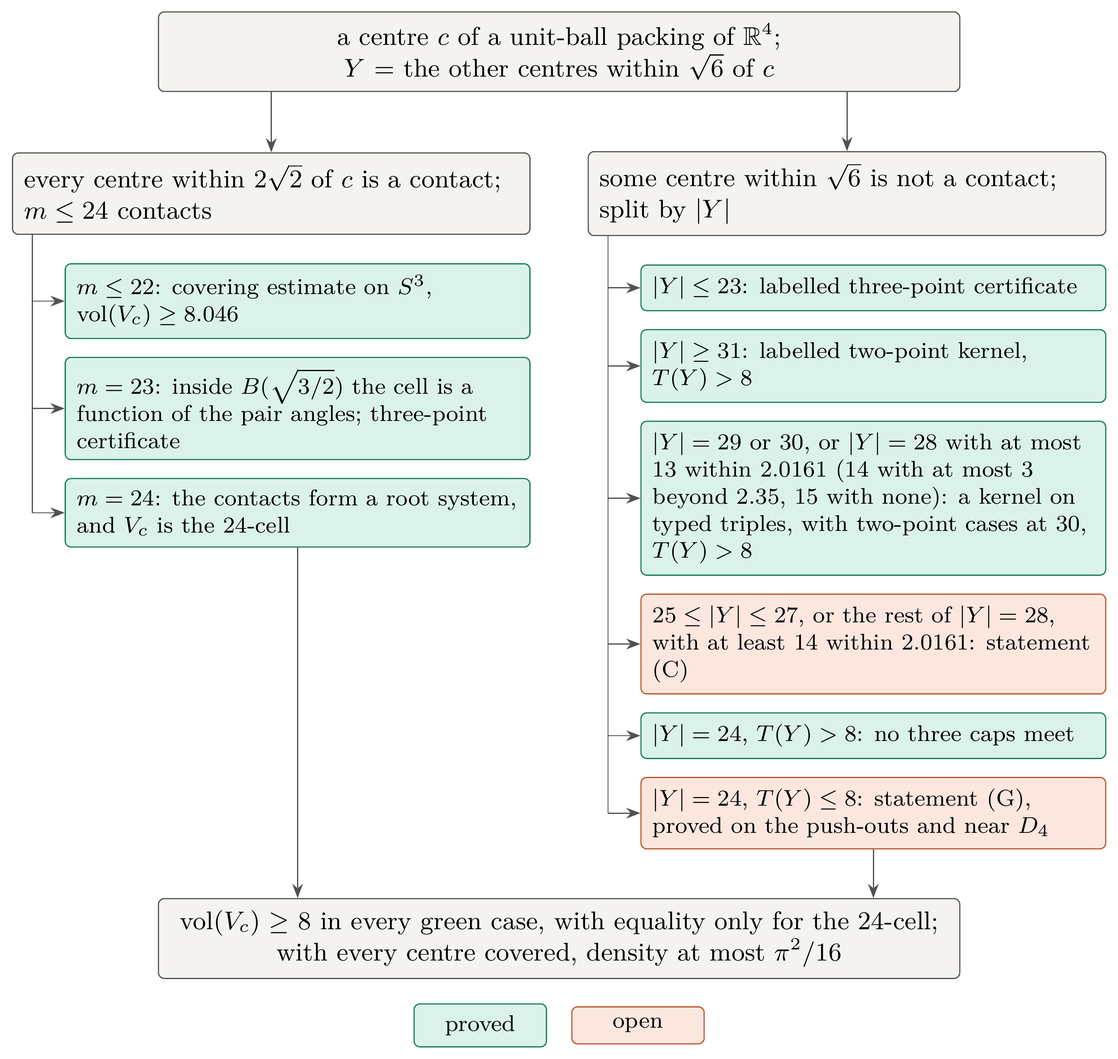
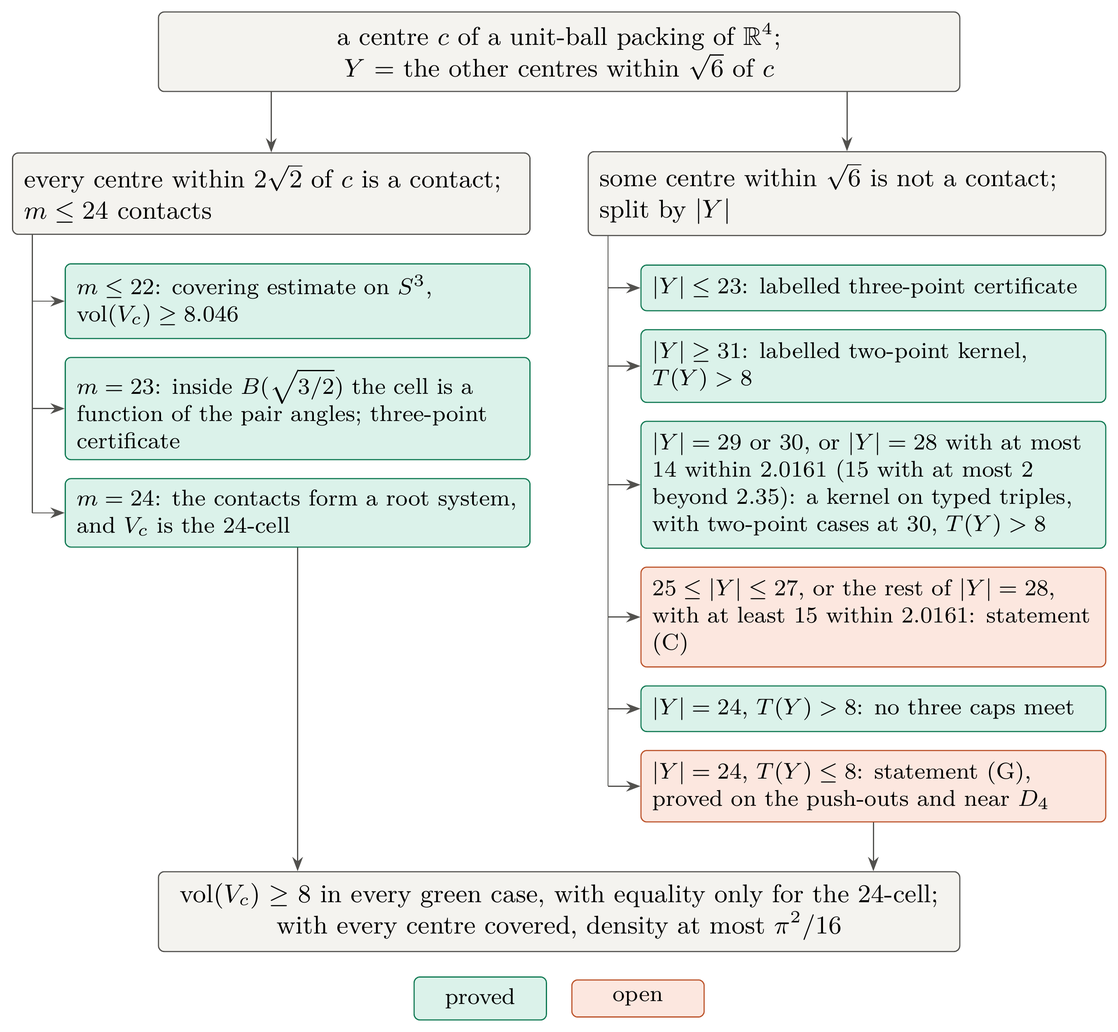
(C) at 28: at most 14 centres within 2.0161, or 15 with at most 2 beyond 2.35 (bins refined)
The refined-bin check passes (multi_cap/runs/combo28_refined_check.log):
smaller constants for the triples in bins (1,3,7), (1,6,7), (3,3,3),
(1,1,3) and the pairs in (3,6), (6,6), checked by branch and bound with
the thresholds of the passing full check (identical, by diff). Largest
exact bounds 3.102386 at (14,0,9,0,0,1,4) and 3.102823 at (15,0,8,0,0,3,2),
below 9 pi^2/8 - 8. prop:count28-few, rem:count28-rest, the outlook, the
proof map, the table row and the READMEs follow. The check at smaller
margins has started (combo28_squeeze_check.log).

Claude-Session: https://claude.ai/code/session_019XJVgYk98V2Kfwjssyo66W

diff --git a/paper/D4.tex b/paper/D4.tex
@@ -246,8 +246,8 @@ contact graph on $S^3$.
 This paper proves the conjecture at every centre whose neighbours within
 $2\sqrt2$ touch it, at every centre with at most twenty-three or at least
 twenty-nine other centres within $\sqrt6$, or with twenty-eight of which at
-most thirteen lie within $2.0161$ (fourteen if at most three lie beyond
-$2.35$, fifteen if none does), and in an explicit neighbourhood
+most fourteen lie within $2.0161$ (fifteen if at most two lie beyond
+$2.35$), and in an explicit neighbourhood
 of the $D_4$ configuration, and it reduces the remaining centres to two
 explicit statements about at most twenty-eight neighbours; the cases left open
 are those of \cref{conj:shell} below.
@@ -330,9 +330,8 @@ set of other centres within $\sqrt6$ of $c$. The conclusion of
 \begin{enumerate}[label=\textup{(\alph*)},leftmargin=2.2em]
 \item $|Y|\le23$, at any distances;
 \item $|Y|\ge31$, and then $\vol(V_c)>8.0179$;
-\item $|Y|=29$ or $|Y|=30$, or $|Y|=28$ and at most $13$ centres of $Y$
-lie within $2.0161$ of $c$, or at most $14$ with at most $3$ beyond $2.35$,
-or at most $15$ with none beyond $2.35$;
+\item $|Y|=29$ or $|Y|=30$, or $|Y|=28$ and at most $14$ centres of $Y$
+lie within $2.0161$ of $c$, or at most $15$ with at most $2$ beyond $2.35$;
 \item $|Y|=24$, and $Y$ lies on the rays from $c$ through the roots of a
 copy of $\Rt$;
 \item the contact directions of $c$ contain all but at most two of the
@@ -365,7 +364,7 @@ The twenty-four-cell conjecture is \cref{thm:local-general} together with
 \cref{thm:kissing-stable}, a centre at which \cref{conj:shell} fails has
 between $24$ and $28$ other centres within $\sqrt6$, one of them at a
 distance between $2+\varepsilon_0$ and $\sqrt6$, and at most $24$ within
-$2.0161$; if it has $28$, then at least $14$ of them lie within $2.0161$.
+$2.0161$; if it has $28$, then at least $15$ of them lie within $2.0161$.
 For a set $Y$ of centres within $\sqrt6$ of $c$ let $T(Y)$ be the
 volume of the part of $B(c,\sqrt{3/2})$ that no half-space of $Y$ cuts off,
 and $K(Y)$ the convex hull of $c$ and the images of the centres of $Y$ under
@@ -383,13 +382,12 @@ thirty and twenty-nine with a kernel on triples of directions that carry the
 range of their distance from $c$ as a type; for $25\le|Y|\le28$ we prove lower bounds on
 the number of centres within $2.05$, $2.1$, $2.15$ and $2.2$
 (\cref{prop:C-radial}), and with the same kernel we prove (C) for
-$|Y|=28$ when at most $13$ centres lie within $2.0161$, and when $14$ or
-$15$ do under bounds on the centres beyond $2.35$
-(\cref{prop:count28-few}). We prove (G) along
+$|Y|=28$ when at most $14$ centres lie within $2.0161$, and when $15$ do
+and at most $2$ lie beyond $2.35$ (\cref{prop:count28-few}). We prove (G) along
 every push-out of the root system and in a neighbourhood of it
 (\cref{thm:G-pushout,thm:near-contact}). Statement (G) in general, and (C)
 for $25\le|Y|\le27$ and for the cases with $|Y|=28$ that
-\cref{rem:count28-rest} lists, all with at least $14$ centres within
+\cref{rem:count28-rest} lists, all with at least $15$ centres within
 $2.0161$, are open, and \cref{sec:G-and-C} sets out what each
 needs; \cref{fig:proof-map} shows the cases. The density bound does not
 require them cell by cell:
@@ -1472,7 +1470,7 @@ Result & Kernel & Degree & Finite check & Proved / needed\\
 \cref{thm:count31} & pairs, labelled & $12$, $4$ & $191\,740$ boxes & $3.08537$ / $3.10330$\\
 \cref{thm:count30} & pairs; typed triples & $12$, $4$; $8$ & $193$ million boxes & $3.0992$ / $3.10330$\\
 \cref{thm:count29} & pairs; typed triples & $12$, $4$; $8$ & $16.3$ million boxes & $3.10147$ / $3.10330$\\
-\cref{prop:count28-few} & pairs; typed triples & $12$, $4$; $8$ & $19.1$ million boxes & $3.10246$ / $3.10330$\\
+\cref{prop:count28-few} & pairs; typed triples & $12$, $4$; $8$ & $27.9$ million boxes & $3.10283$ / $3.10330$\\
 \cref{prop:levels}, $M=24$ & pairs; typed triples & $6$ (triples) & $104\,028$ boxes & $3.25388$ / $3.3291$\\
 \cref{prop:levels}, $M=26$ & pairs; typed triples & $8$ (triples) & $7.5$ million boxes & $3.32906$ / $3.3291$\\
 \cref{prop:C-radial} & pairs, labelled & $12$, $4$ & one split per entry & $3.10276$ / $3.10330$\\
@@ -7229,8 +7227,8 @@ the pair terms for twenty-five or more. Four statements would give both.
   away from the root system, and for each count from $25$ to $28$. It is
   proved for $23$ by \cref{thm:m23-labelled}, at $29$ and $30$ by
   \cref{thm:count29,thm:count30}, from $31$ on by \cref{thm:count31}, and at
-  $28$ with at most $13$ centres within $2.0161$, or $14$ or $15$ under bounds
-  on those beyond $2.35$, by \cref{prop:count28-few}.
+  $28$ with at most $14$ centres within $2.0161$, or $15$ with at most $2$
+  beyond $2.35$, by \cref{prop:count28-few}.
 \end{enumerate}
 By \cref{prop:second-code}, statement (i) fails at slack $0.017$, so for
 twenty-four centres (i) and (ii) cannot be proved one after the other over
@@ -7877,9 +7875,9 @@ them, and \cref{rem:what-g-needs-2} sets out what a proof needs.
 For twenty-five or more centres within $\sqrt6$ the pair terms alone
 suffice from thirty-one centres on (\cref{thm:count31}), and with triples
 of typed directions added they suffice at thirty and at twenty-nine
-(\cref{thm:count30,thm:count29}), and at twenty-eight when at most thirteen
-centres lie within $2.0161$, or fourteen or fifteen under bounds on those
-beyond $2.35$ (\cref{prop:count28-few}). From twenty-five to twenty-seven,
+(\cref{thm:count30,thm:count29}), and at twenty-eight when at most fourteen
+centres lie within $2.0161$, or fifteen with at most two beyond $2.35$
+(\cref{prop:count28-few}). From twenty-five to twenty-seven,
 and in the cases at twenty-eight that \cref{rem:count28-rest} lists, they
 are not proved to suffice, although the least value of $T$ found numerically for
 such configurations is $8.264$ (\cref{fig:counts}). Together with (G), the
@@ -7930,8 +7928,8 @@ slack $s$. (d) The cases of \cref{prop:reduction-G}; the green boxes are
 proved, the orange ones are statement (G) and statement (C) for twenty-five
 to twenty-eight centres, (C) being proved from twenty-nine on by
 \cref{thm:count31,thm:count30,thm:count29} and at twenty-eight with at most
-thirteen centres within $2.0161$, or fourteen or fifteen under bounds on those
-beyond $2.35$, by \cref{prop:count28-few}.
+fourteen centres within $2.0161$, or fifteen with at most two beyond $2.35$,
+by \cref{prop:count28-few}.
 Panels (b) and (c) are floating-point minimisations, evidence and not
 bounds.}
 \label{fig:codes}
@@ -8100,8 +8098,8 @@ With at most $23$ centres within $\sqrt6$ the bound holds by
 \cref{thm:m23-labelled}, and with $31$ or more by \cref{thm:count31}
 (\cref{fig:count31}); \cref{thm:count30,thm:count29} below settle thirty and
 twenty-nine, \cref{prop:count28-few} settles twenty-eight with at most
-thirteen centres within $2.0161$ and with fourteen or fifteen under bounds
-on those beyond $2.35$, and what remains of (C) is the range from $25$ to
+fourteen centres within $2.0161$ and with fifteen when at most two lie beyond
+$2.35$, and what remains of (C) is the range from $25$ to
 $27$ and the rest of $28$.
 
 \begin{remark}[Where the kernel stops]\label{rem:kernel-limit}
@@ -8181,9 +8179,9 @@ $\Pi$ at $u=\frac12$, the inner product of neighbouring roots
 $u=\frac12$; $\Pi$ is positive from $u=\frac13$, where the two caps first
 meet. (d) The counts of centres within $\sqrt6$ and what settles each;
 thirty and twenty-nine are settled by the kernel on typed triples of
-\cref{thm:count30,thm:count29}, and twenty-eight with at most thirteen
-centres within $2.0161$, or fourteen or fifteen under bounds on those beyond
-$2.35$, by \cref{prop:count28-few}.
+\cref{thm:count30,thm:count29}, and twenty-eight with at most fourteen
+centres within $2.0161$, or fifteen with at most two beyond $2.35$, by
+\cref{prop:count28-few}.
 Panel (a) is floating point, except the value $3.0854$ at $31$, which is
 proved.}
 \label{fig:count31}
@@ -8876,9 +8874,8 @@ number of centres within $2.0161$ is bounded.
 
 \begin{prop}[Twenty-eight centres, few of them close]\label{prop:count28-few}
 Suppose that exactly $28$ centres other than $c$ lie within $\sqrt6$ of $c$.
-If at most $13$ of them lie within $2.0161$ of $c$, or at most $14$ lie
-within $2.0161$ and at most $3$ beyond $2.35$, or at most $15$ lie within
-$2.0161$ and none beyond $2.35$, then $T(Y)>8$.
+If at most $14$ of them lie within $2.0161$ of $c$, or at most $15$ lie
+within $2.0161$ and at most $2$ beyond $2.35$, then $T(Y)>8$.
 \end{prop}
 
 \begin{proof}
@@ -8890,9 +8887,8 @@ $c$ lies in $[2,2.05]$, $(2.05,2.35]$ or $(2.35,\sqrt6)$, and give its
 direction the same type. With the seven bins $[2,2.0161]$, $(2.0161,2.05]$,
 $(2.05,2.1]$, $(2.1,2.15]$, $(2.15,2.2]$, $(2.2,2.35]$ and $(2.35,\sqrt6)$,
 the integer vectors $(n_b)$ with $\sum_bn_b=28$ that meet these bounds
-number $60\,214$ with $n_1\le13$, which fall into $105$ classes by the
-numbers of centres of each type, $59\,799$ with $n_1\le14$ and $n_7\le3$,
-and $26\,554$ with $n_1\le15$ and $n_7=0$. The derivation of
+number $62\,865$ with $n_1\le14$ and $55\,611$ with $n_1\le15$ and $n_7\le2$.
+The derivation of
 \eqref{eq:thirty-bound} applies word for word, with these bins and types,
 and it remains to see that its right side is below $\frac98\pi^2-8$ at each
 of these vectors.
@@ -8912,27 +8908,40 @@ samples miss by about $3\cdot10^{-6}$, and the smaller margin leaves no room
 to close the boxes near it. The six inequalities on pairs close $3\,279\,356$ boxes,
 $3\,167\,158$ of them for two centres of type $\mathsf a$, and evaluate
 $\Pi$ in ball arithmetic at $3\,170\,697$ of them; the bins take $3698$
-intervals, and the ten inequalities on triples close $15\,805\,222$ boxes. The right
-side of \eqref{eq:thirty-bound}, evaluated in exact rational arithmetic, is
-largest at $(13,0,11,0,0,0,4)$ among the vectors with $n_1\le13$, where it is
-$3.100609$, at $(14,0,11,0,0,0,3)$ among those with $n_1\le14$ and $n_7\le3$,
-where it is $3.102452$, and at $(15,0,13,0,0,0,0)$ among those with
-$n_1\le15$ and $n_7=0$, where it is $3.101488$, each below
+intervals, and the ten inequalities on triples close $15\,805\,222$ boxes.
+
+Narrower bins give smaller constants. Three centres in the bins $b$, $b'$ and
+$b''$ have inner products at most $a(\rho_b,\rho_{b'})$, $a(\rho_b,\rho_{b''})$
+and $a(\rho_{b'},\rho_{b''})$, where $\rho_b$ is the upper end of bin $b$,
+because $a$ increases in each argument; the inequality on triples of their kind
+therefore holds on that smaller set with a smaller constant, and the same goes
+for pairs. With the same margins, the triples of centres in the bins $(1,3,7)$
+and $(1,6,7)$ get a constant of at most $3.1880\cdot10^{-4}$ in place of
+$3.2152\cdot10^{-4}$, those in $(3,3,3)$ at most $5.3549\cdot10^{-4}$ in place
+of $5.4355\cdot10^{-4}$, those in $(1,1,3)$ at most $5.6168\cdot10^{-4}$ in
+place of $5.6233\cdot10^{-4}$, and the pairs in the bins $(3,6)$ and $(6,6)$
+at most $6.59505\cdot10^{-2}$ and $6.59697\cdot10^{-2}$ in place of
+$6.59702\cdot10^{-2}$; these inequalities close $8\,792\,068$ further boxes. In
+\eqref{eq:thirty-bound} each pair or triple then counts with the constant of
+its bins where one is given, and with that of its types otherwise. The right
+side, evaluated in exact rational arithmetic, is largest at
+$(14,0,9,0,0,1,4)$ among the vectors with $n_1\le14$, where it is
+$3.102386$, and at $(15,0,8,0,0,3,2)$ among those with $n_1\le15$ and
+$n_7\le2$, where it is $3.102823$, both below
 $\frac98\pi^2-8=3.10330\ldots$. None of the inequalities checked above
-involves the counts, so the one certificate and its one check serve all three
+involves the counts, so the one certificate and these checks serve both
 sets of vectors.
 \end{proof}
 
 \begin{remark}[What remains at twenty-eight centres]\label{rem:count28-rest}
 By \cref{prop:C-radial,prop:count28-few}, a set $Y$ of $28$ centres with
-$T(Y)\le8$ has at least $14$ centres within $2.0161$, $21$ within $2.1$,
-$22$ within $2.15$, $23$ within $2.2$ and $24$ within $2.35$; if exactly $14$
-lie within $2.0161$, then $4$ lie beyond $2.35$, and if exactly $15$, then at
-least one does. Since
+$T(Y)\le8$ has at least $15$ centres within $2.0161$, $21$ within $2.1$,
+$22$ within $2.15$, $23$ within $2.2$ and $24$ within $2.35$; if exactly $15$
+lie within $2.0161$, then at least $3$ lie beyond $2.35$. Since
 $a(d,d')$ increases in each argument, the directions of $Y$, ordered by
 the distance of their centres from $c$, then satisfy
 $\langle\hat y_i,\hat y_j\rangle\le a(\rho_i,\rho_j)$, where $\rho_i$ is
-$2.0161$ for the first fourteen, $2.1$ for the next seven, $2.15$, $2.2$
+$2.0161$ for the first fifteen, $2.1$ for the next six, $2.15$, $2.2$
 and $2.35$ for the next three, and $\sqrt6$ for the last four. Statement
 (C) at twenty-eight centres therefore follows from a statement about $28$
 points of $S^3$: no such points exist. Local searches find none. With the
@@ -8944,7 +8953,7 @@ moved in to $2.0161$ misses by $4.2\cdot10^{-3}$, and $600$ random
 perturbations of it, each followed by the same search, end again at
 twelve. A search of this kind is evidence and not a proof. The statement is of the kind that
 \cref{rem:what-c-needs} describes for twenty-four close centres: the four
-centres beyond $2.35$ need holes of the fourteen close directions at inner
+centres beyond $2.35$ need holes of the fifteen close directions at inner
 product at most $a(2.0161,\sqrt6)=0.6141$, and the typed three-point bound of
 \cref{lem:typed-triples}, applied to the directions alone, does not see
 holes. At degrees $8$ and $10$ it does not exclude even the directions of
@@ -9430,8 +9439,8 @@ cross-polytope (\cref{thm:local-uncond,thm:cap-inequality}).
 The conjecture holds also at every centre with at most twenty-three other
 centres within $\sqrt6$ (\cref{thm:m23-labelled}) or with at least
 twenty-nine (\cref{thm:count31,thm:count30,thm:count29}), or with twenty-eight
-of which at most thirteen lie within $2.0161$, or fourteen or fifteen under
-bounds on those beyond $2.35$ (\cref{prop:count28-few}); at every centre whose
+of which at most fourteen lie within $2.0161$, or fifteen with at most two
+beyond $2.35$ (\cref{prop:count28-few}); at every centre whose
 twenty-four neighbours within
 $\sqrt6$ lie on the rays of a root system (\cref{cor:rays}), whose contacts
 contain enough of a root system (\cref{cor:root-subsets}), or whose
@@ -9593,8 +9602,8 @@ statement (G) for twenty-four centres and statement (C) for twenty-five to
 twenty-eight, and together these would give $\Delta_4=\pi^2/16$
 (\cref{cor:conj-density}). Statement (C) is proved from twenty-nine centres on
 (\cref{thm:count31,thm:count30,thm:count29}), and at twenty-eight when at most
-thirteen centres lie within $2.0161$, or fourteen or fifteen under bounds on
-those beyond $2.35$ (\cref{prop:count28-few}). Statement (G) is proved along the
+fourteen centres lie within $2.0161$, or fifteen with at most two beyond
+$2.35$ (\cref{prop:count28-few}). Statement (G) is proved along the
 push-outs of the root system and near it
 (\cref{thm:G-pushout,thm:near-contact}), and its second order is
 nonnegative on the packing cone (\cref{prop:cone-min,prop:tilt-block}).
@@ -9625,18 +9634,18 @@ labelled one is larger. The second route continues the kernel that
 settles thirty and twenty-nine centres, the labelled two-point kernel
 together with the three-point kernel on directions typed by distance
 (\cref{lem:typed-triples}), downward through the counts. At twenty-eight
-centres it settles the case of at most thirteen centres within $2.0161$,
-and two cases with fourteen or fifteen (\cref{prop:count28-few}). On the whole case at twenty-eight, with three
+centres it settles the case of at most fourteen centres within $2.0161$,
+and fifteen with at most two beyond $2.35$ (\cref{prop:count28-few}). On the whole case at twenty-eight, with three
 types, the optimum of the programme on its sample points is $3.107$ at
 $d=8$, above $\frac98\pi^2-8=3.10330$, and $3.095$ at $d=10$, below it; at
 twenty-nine the step from $d=8$ to $d=10$ lowers the optimum from $3.064$ to
 $3.012$. Whether a certificate of degree $10$ exists for the whole case is
 not settled: after five rounds of refinement the solutions still violate the
 inequalities on triples between the samples by more than $10^{-4}$, and with
-$\binom{28}3=3276$ triples a proof needs about $2\cdot10^{-6}$. A
-certificate for at most $k$ centres within $2.0161$, for $k$ between $14$
+the $3276$ triples of $28$ centres a proof needs about $2\cdot10^{-6}$. A
+certificate for at most $k$ centres within $2.0161$, for $k$ between $15$
 and $24$, would leave the statement on directions of
-\cref{rem:count28-rest} with $k+1$ in place of $14$. At
+\cref{rem:count28-rest} with $k+1$ in place of $15$. At
 twenty-seven the optima at $d=8$, $10$ and $12$ are $3.157$, $3.123$ and
 $3.113$, and at twenty-six the optimum at $d=8$ is $3.246$, all above the
 level.\footnote{These optima are those of the programmes

diff --git a/paper/figures_new/tikz_proofmap.tex b/paper/figures_new/tikz_proofmap.tex
@@ -50,8 +50,8 @@
 \node[ok, anchor=north east] (R1) at ($(R.south east)+(0,-0.35)$) {$|Y|\le23$: labelled three-point certificate};
 \node[ok, anchor=north east] (R2) at ($(R1.south east)+(0,-0.22)$) {$|Y|\ge31$: labelled two-point kernel, $T(Y)>8$};
 \node[ok, anchor=north east] (R3) at ($(R2.south east)+(0,-0.22)$)
-  {$|Y|=29$ or $30$, or $|Y|=28$ with at most $13$ within $2.0161$ ($14$ with at most $3$ beyond $2.35$, $15$ with none): a kernel on typed triples, with two-point cases at $30$, $T(Y)>8$};
-\node[open, anchor=north east] (R4) at ($(R3.south east)+(0,-0.22)$) {$25\le|Y|\le27$, or the rest of $|Y|=28$, with at least $14$ within $2.0161$: statement (C)};
+  {$|Y|=29$ or $30$, or $|Y|=28$ with at most $14$ within $2.0161$ ($15$ with at most $2$ beyond $2.35$): a kernel on typed triples, with two-point cases at $30$, $T(Y)>8$};
+\node[open, anchor=north east] (R4) at ($(R3.south east)+(0,-0.22)$) {$25\le|Y|\le27$, or the rest of $|Y|=28$, with at least $15$ within $2.0161$: statement (C)};
 \node[ok, anchor=north east] (R5) at ($(R4.south east)+(0,-0.22)$) {$|Y|=24$, $T(Y)>8$: no three caps meet};
 \node[open, anchor=north east] (R6) at ($(R5.south east)+(0,-0.22)$)
   {$|Y|=24$, $T(Y)\le8$: statement (G), proved on the push-outs and near $D_4$};

diff --git a/gap_closure/README.md b/gap_closure/README.md
@@ -4,8 +4,8 @@ This directory holds the computations run against the two statements that the
 paper leaves open (Section "The statements (G) and (C)"): statement (C) for 25
 to 28 centres within sqrt6 and statement (G), and the three cases they
 settled, the residual case at thirty centres, the whole case at twenty-nine,
-and twenty-eight with at most thirteen centres within 2.0161 (fourteen with
-at most three beyond 2.35, fifteen with none). They are
+and twenty-eight with at most fourteen centres within 2.0161 (fifteen with
+at most two beyond 2.35). They are
 floating-point semidefinite programmes on sampled constraints. **Three of them
 yield certificates**: the round-3 certificate of `C30/combo30p.py`, which
 `multi_cap/combo30_check.py` proves exactly and which is the fifth case of
@@ -166,7 +166,7 @@ degree 6 (floating point, `c28lo{k}_d6.log`):
 
 At degree 8 the value drops by about 0.11 (k = 19: 3.09003 in round 1,
 `c28lo19_d8.log`; k = 20: 3.10234, `c28lo20_d8.log`, stopped when the smaller
-limits came in). `c28lo13_d8.log` ran k = 13 at degree 8 for four rounds: 3.06625, 3.07708, 3.07872, 3.07913 on the samples, corrected at best 3.14343 (round 3; in round 4 the pair functions bulged between samples); `c28lo13_d8b.log` continues it with the starting pair grid kept through every pruning (`KEEP_BASE=1`): round 1 gave 3.07929 on the samples and 3.09797 corrected, and the precheck of that certificate (`CM/c28lo13b_d8_r1.npz`, margins 5e-6, 5e-7, 1e-6, `BORDER=1`, `pre_c28lo13b_r1_small.log`) gives 3.100569 at (13, 0, 11, 0, 0, 0, 4), below 3.10330. Its first exact check (`CM/check_c28lo13b_r1.log`, 3.5 hours) proved the positivity, the six pair inequalities, the bins and nine of the ten triple inequalities, and failed on the kind FFF: a box with value 7.693729e-04 above the threshold 7.693708e-04. That threshold is the largest sampled value refined by SLSQP from the 40 best samples, plus margin3, and the sampling stopped below a narrow peak near 7.7176e-04 (ascent from 600 starts). The rerun raises that one threshold by 1e-5 (`TRIPLE_EXTRA=FFF:1e-5` in `multi_cap/combo_case_check.py`), which adds 4e-5 to the bound at (13, 0, 11, 0, 0, 0, 4), where four triples are of kind FFF, and passes (`CM/check_c28lo13b_r2.log`, copied to `multi_cap/runs/combo28_lo13_check.log`): 15 805 222 triple boxes and the largest bound 3.100609 at (13, 0, 11, 0, 0, 0, 4), below 3.10330. This is `prop:count28-few`, and `c28lo13b_d8_r1.npz` is `multi_cap/radial_certificates/combo28_lo13_d8.npz`. Over all count vectors the certificate reaches no further: with its proved thresholds the bound is 3.105310 at k = 14 and 3.149929 at k = 24, between 0.0043 and 0.0047 more for each further close centre (`CM/c28_kscan.py`, `CM/c28_kscan.log`). It does reach two more cases once the centres beyond 2.35 are bounded, since the worst vectors have four of them: at most 14 within 2.0161 with at most 3 beyond 2.35 (3.102452 at (14, 0, 11, 0, 0, 0, 3), `CM/case28_k14f3.json`) and at most 15 within 2.0161 with none beyond (3.101488 at (15, 0, 13, 0, 0, 0, 0), `CM/case28_k15f0.json`); at 15 with one beyond it would be 3.103335, just above. The pair, bin and triple inequalities do not involve the counts, so the passing check proves these cases once the exact largest bound over their count vectors lies below the level; the `EXTRA_CASES` option of `multi_cap/combo_case_check.py` computes it (`multi_cap/runs/combo28_extra_cases.log`), and `prop:count28-few` includes both cases. `CM/c28_config_test.py` checks the implementation on actual sets of 28 directions and distances, where the bound B(Y) of the kernels must lie above the union of caps U(Y): on the 12-close witness U = 2.263412 and B = 2.593852, and on the root system with four centres in deep holes U = 3.196365 and B = 3.702009 (`CM/c28_config_test.log`). A further round from those samples (`c28lo13_d8c.log`) gave 3.07941 and 3.10486 corrected and was stopped for the check.
+limits came in). `c28lo13_d8.log` ran k = 13 at degree 8 for four rounds: 3.06625, 3.07708, 3.07872, 3.07913 on the samples, corrected at best 3.14343 (round 3; in round 4 the pair functions bulged between samples); `c28lo13_d8b.log` continues it with the starting pair grid kept through every pruning (`KEEP_BASE=1`): round 1 gave 3.07929 on the samples and 3.09797 corrected, and the precheck of that certificate (`CM/c28lo13b_d8_r1.npz`, margins 5e-6, 5e-7, 1e-6, `BORDER=1`, `pre_c28lo13b_r1_small.log`) gives 3.100569 at (13, 0, 11, 0, 0, 0, 4), below 3.10330. Its first exact check (`CM/check_c28lo13b_r1.log`, 3.5 hours) proved the positivity, the six pair inequalities, the bins and nine of the ten triple inequalities, and failed on the kind FFF: a box with value 7.693729e-04 above the threshold 7.693708e-04. That threshold is the largest sampled value refined by SLSQP from the 40 best samples, plus margin3, and the sampling stopped below a narrow peak near 7.7176e-04 (ascent from 600 starts). The rerun raises that one threshold by 1e-5 (`TRIPLE_EXTRA=FFF:1e-5` in `multi_cap/combo_case_check.py`), which adds 4e-5 to the bound at (13, 0, 11, 0, 0, 0, 4), where four triples are of kind FFF, and passes (`CM/check_c28lo13b_r2.log`, copied to `multi_cap/runs/combo28_lo13_check.log`): 15 805 222 triple boxes and the largest bound 3.100609 at (13, 0, 11, 0, 0, 0, 4), below 3.10330. This is `prop:count28-few`, and `c28lo13b_d8_r1.npz` is `multi_cap/radial_certificates/combo28_lo13_d8.npz`. Over all count vectors the certificate reaches no further: with its proved thresholds the bound is 3.105310 at k = 14 and 3.149929 at k = 24, between 0.0043 and 0.0047 more for each further close centre (`CM/c28_kscan.py`, `CM/c28_kscan.log`). It does reach two more cases once the centres beyond 2.35 are bounded, since the worst vectors have four of them: at most 14 within 2.0161 with at most 3 beyond 2.35 (3.102452 at (14, 0, 11, 0, 0, 0, 3), `CM/case28_k14f3.json`) and at most 15 within 2.0161 with none beyond (3.101488 at (15, 0, 13, 0, 0, 0, 0), `CM/case28_k15f0.json`); at 15 with one beyond it would be 3.103335, just above. The pair, bin and triple inequalities do not involve the counts, so the passing check proves these cases once the exact largest bound over their count vectors lies below the level; the `EXTRA_CASES` option of `multi_cap/combo_case_check.py` computes it (`multi_cap/runs/combo28_extra_cases.log`). Narrower bins then reach one centre further. Three centres in the bins b, b' and b'' have inner products at most a(rho_b, rho_b'), a(rho_b, rho_b'') and a(rho_b', rho_b''), with rho_b the upper end of bin b, because a increases in each argument; so the inequality on triples of their kind holds on that smaller set with a smaller constant, and the same goes for pairs. The options `REFINE_TRIPLES` and `REFINE_PAIRS` of `multi_cap/combo_case_check.py` compute such constants with the same margins and check them by branch and bound; with `ONLY=NONE` the kinds themselves are not checked again (the passing check above covers them, with the same thresholds). For the triples in the bins (1, 3, 7) and (1, 6, 7) the constant drops from 3.2152e-4 to 3.1880e-4, for (3, 3, 3) from 5.4355e-4 to 5.3549e-4, for (1, 1, 3) from 5.6233e-4 to 5.6168e-4, and for the pairs in (3, 6) and (6, 6) from 6.59702e-2 to 6.59505e-2 and 6.59697e-2; the bins (1, 7, 7) and (1, 1, 6) give no measurable gain. The check (`multi_cap/runs/combo28_refined_check.log`, 13 315 362 further boxes, 8 792 068 of them for the combinations that lower a constant) gives 3.102386 at (14, 0, 9, 0, 0, 1, 4) over the 62 865 count vectors with at most 14 within 2.0161 (`CM/case28_k14.json`), and 3.102823 at (15, 0, 8, 0, 0, 3, 2) over the 55 611 with at most 15 within 2.0161 and at most 2 beyond 2.35 (`CM/case28_k15f2.json`), both below 3.10330; at 15 with 3 beyond it would be about 3.10479 at (15, 0, 8, 0, 0, 2, 3), above. `prop:count28-few` includes both cases. `CM/c28_config_test.py` checks the implementation on actual sets of 28 directions and distances, where the bound B(Y) of the kernels must lie above the union of caps U(Y): on the 12-close witness U = 2.263412 and B = 2.593852, and on the root system with four centres in deep holes U = 3.196365 and B = 3.702009 (`CM/c28_config_test.log`). A further round from those samples (`c28lo13_d8c.log`) gave 3.07941 and 3.10486 corrected and was stopped for the check.
 A certificate for some k reduces (C) at 28 to a statement about directions
 alone: no 28 centres satisfying the radial counts of 28 (21 within 2.1, 22
 within 2.15, 23 within 2.2, 24 within 2.35) have k + 1 of them within 2.0161.
@@ -212,7 +212,7 @@ rho(eta) of a root system. Through `cor:no-room`, the residual case at thirty
 would have needed rho < 0.206 at eta = 0.00368; the kernel on typed triples
 settled that case instead (`thm:count30`), and (L) remains the route for
 twenty-five to twenty-seven centres, for the cases of twenty-eight that
-`prop:count28-few` leaves (all with at least fourteen within 2.0161), and for
+`prop:count28-few` leaves (all with at least fifteen within 2.0161), and for
 (G).
 
 `budget_far.py` maximises the distance to the nearest root system under

diff --git a/multi_cap/README.md b/multi_cap/README.md
@@ -365,7 +365,8 @@ The contact and non-contact cases of sec:deviation-domain and sec:noncontact, fi
                               ONLY=FFF (or a list of kinds) only those
                               triple branch and bounds run, from the same
                               thresholds, and the run ends PARTIAL.
-                              The two further cases of prop:count28-few:
+                              Two further cases, now inside those of the next
+                              paragraph:
                               with PRECHECK=1, the same certificate, case,
                               arguments and options, and
                               EXTRA_CASES=case28_k14f3.json,case28_k15f0.json
@@ -381,6 +382,23 @@ The contact and non-contact cases of sec:deviation-domain and sec:noncontact, fi
                               triple inequalities do not involve the count
                               vectors, so the passing check covers them.
                               Log: runs/combo28_extra_cases.log.
+                              The cases of prop:count28-few with 14 and 15
+                              within 2.0161: the same certificate, case,
+                              arguments and options, with ONLY=NONE,
+                              REFINE_TRIPLES=1-3-7,3-3-3,1-1-3,1-6-7,1-7-7,1-1-6,
+                              REFINE_PAIRS=3-6,6-6 and
+                              EXTRA_CASES=case28_k14.json,case28_k15f2.json
+                              (at most 14 within 2.0161; at most 15 within
+                              2.0161 and at most 2 beyond 2.35).  Each listed
+                              combination of bins gets the constant of its
+                              smaller set of inner products, checked by its
+                              own branch and bound (13 315 362 boxes in all),
+                              and the bound counts each pair or triple with
+                              the constant of its bins where one is given:
+                              3.102386 at (14, 0, 9, 0, 0, 1, 4) over 62 865
+                              vectors and 3.102823 at (15, 0, 8, 0, 0, 3, 2)
+                              over 55 611.  Log:
+                              runs/combo28_refined_check.log.
 
   pair_bb_fast.py             The branch and bound of radial_count_check.py
                               for K <= Pi, processed in numpy batches: the

diff --git a/README.md b/README.md
@@ -27,9 +27,8 @@ R^4. The paper proves vol(V_c) >= 8, with equality only for the regular
   de Laat, Leijenhorst and de Muinck Keizer;
 - at most twenty-three other centres lie within sqrt 6 of c;
 - at least twenty-nine lie within sqrt 6;
-- exactly twenty-eight lie within sqrt 6, and at most thirteen of them
-  within 2.0161, or at most fourteen with at most three beyond 2.35, or at
-  most fifteen with none beyond 2.35;
+- exactly twenty-eight lie within sqrt 6, and at most fourteen of them
+  within 2.0161, or at most fifteen with at most two beyond 2.35;
 - exactly twenty-four lie within sqrt 6, on the rays of a root system, or
   the contacts contain enough of a root system;
 - no centre lies strictly between 2 + 4e-26 and sqrt 6.
@@ -44,8 +43,8 @@ For the remaining centres the paper reduces the bound to two explicit
 statements: (G), a volume bound when exactly twenty-four centres lie within
 sqrt 6, and (C), a bound on the caps when twenty-five to twenty-eight do. Together
 they imply that D_4 gives the densest packing of R^4. **Neither is proved**;
-(C) is proved at twenty-eight only when at most thirteen centres lie within
-2.0161, or fourteen or fifteen under the bounds above on those beyond 2.35.
+(C) is proved at twenty-eight only when at most fourteen centres lie within
+2.0161, or fifteen with at most two beyond 2.35.
 The paper records what is proved about them and where each method stops;
 `gap_closure/` holds the floating-point explorations against them, none of
 which is a certificate, and the logs of the exact checks behind the density
